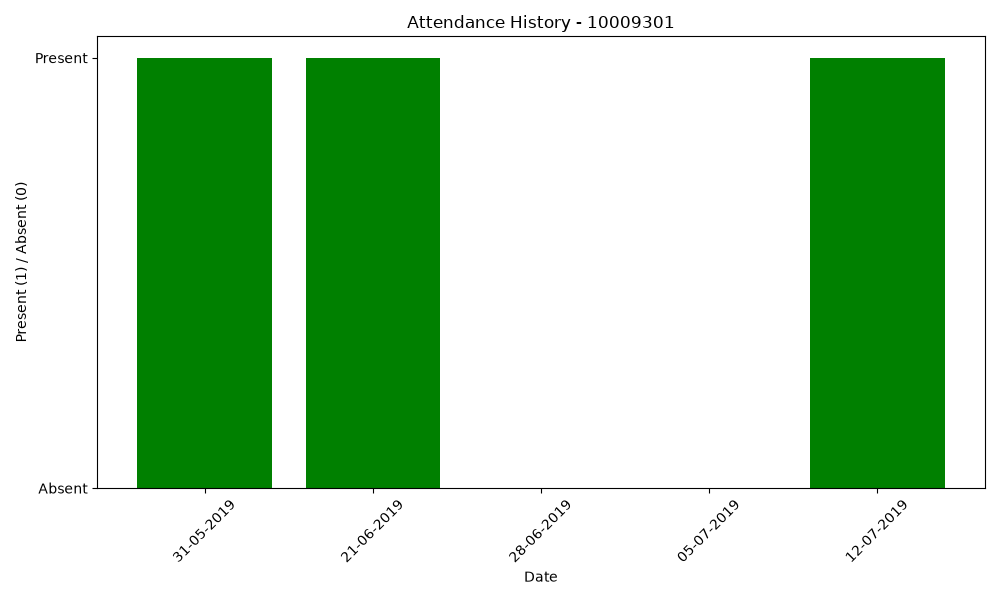
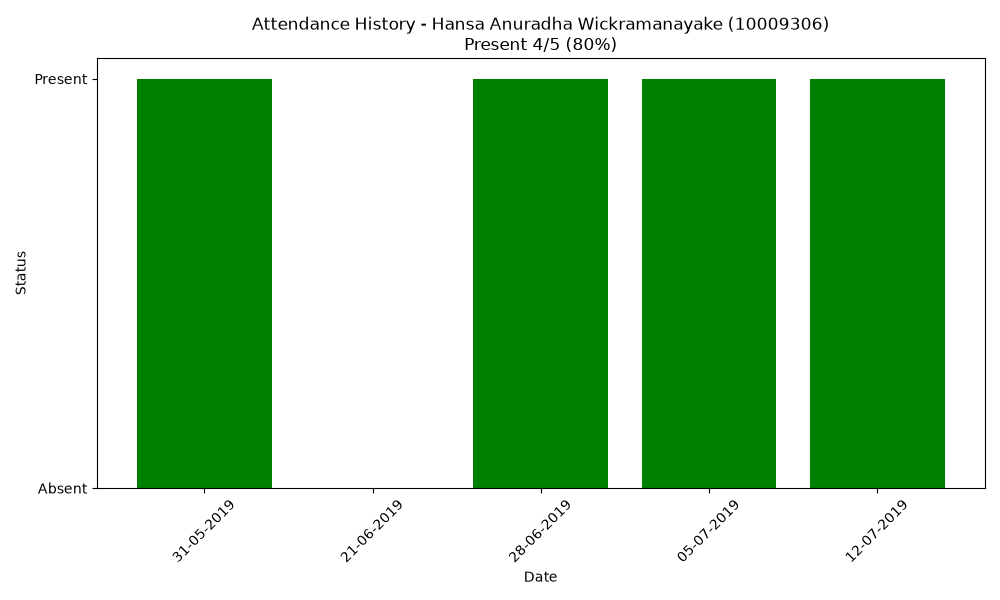
Update .gitignore, enhance README with usage instructions, and implement SignatureInvestigator class for signature consistency analysis

diff --git a/src/investigate.py b/src/investigate.py
@@ -1,0 +1,339 @@
+"""Investigate a student's signature consistency across signing sheets.
+
+This script reuses the project’s existing student roster and attendance database
+logic, crops the same signature cell used by the attendance pipeline, prepares
+those crops for comparison, and reports whether the student’s signatures look
+consistent across dates.
+"""
+
+import os
+import sys
+from typing import List, Tuple
+
+import cv2
+import numpy as np
+
+import config
+from database import AttendanceDatabase
+from student_repository import StudentRepository
+
+
+ROOT_DIR = os.path.dirname(os.path.dirname(os.path.abspath(__file__)))
+DATA_DIR = os.path.join(ROOT_DIR, "data")
+IMAGES_DIR = os.path.join(DATA_DIR, "images")
+
+
+class SignatureInvestigator:
+    """Compare a student's signatures across multiple signing sheets."""
+
+    SIMILARITY_THRESHOLD = 0.60
+
+    def __init__(self, repository: StudentRepository, database: AttendanceDatabase):
+        self.repository = repository
+        self.database = database
+
+    def investigate(self, student_id: str) -> None:
+        """Load the student, attendance records, and signature crops for comparison."""
+        try:
+            students = self.repository.load_students()
+            student = next((s for s in students if s.student_id == student_id), None)
+            if student is None:
+                try:
+                    row_index = int(student_id) - 1
+                    if 0 <= row_index < len(students):
+                        student = students[row_index]
+                    else:
+                        print(f"Student ID not found: {student_id}")
+                        return
+                except ValueError:
+                    print(f"Student ID not found: {student_id}")
+                    return
+            else:
+                row_index = students.index(student)
+            rows = self.database.get_records_for_student(student_id)
+            present_dates = sorted(
+                {row[0] for row in rows if str(row[1]).strip().lower() == "present"}
+            )
+
+            if not present_dates:
+                print(f"No present attendance records found for student {student_id}.")
+                return
+
+            samples: List[Tuple[str, str, np.ndarray]] = []
+            for image_name, boxes in config.CELL_COORDINATES.items():
+                image_date = config.IMAGE_DATES.get(image_name)
+                if image_date not in present_dates:
+                    continue
+
+                image_path = os.path.join(IMAGES_DIR, image_name)
+                if not os.path.exists(image_path):
+                    print(f"Skipping missing image: {image_path}")
+                    continue
+
+                image = cv2.imread(image_path)
+                if image is None:
+                    print(f"Skipping unreadable image: {image_path}")
+                    continue
+
+                if row_index >= len(boxes):
+                    print(f"No crop box for student row {row_index + 1} in {image_name}")
+                    continue
+
+                # Reuse the same signature-cell crop region used by the attendance pipeline.
+                y1, y2, x1, x2 = boxes[row_index]
+                crop = image[y1 + 10:y2 - 10, x1 + 10:x2 - 10]
+                processed = self._prepare_signature(crop)
+                if np.count_nonzero(processed) < 50:
+                    print(f"Skipping {image_date}: signature not detected in {image_name}")
+                    continue
+                samples.append((image_date, image_name, processed))
+
+            if len(samples) < 2:
+                print(
+                    "Not enough signature samples found for comparison. "
+                    "At least two present sheets are required."
+                )
+                return
+
+            self._save_debug_samples(student_id, samples)
+            self._report_similarity(student.name, student_id, samples)
+        except Exception as exc:  # pragma: no cover - defensive reporting for the report
+            print(f"Investigation failed: {exc}")
+
+    def _prepare_signature(self, crop: np.ndarray) -> np.ndarray:
+        """Convert a signature crop into a normalized grayscale image.
+
+        Steps:
+        - convert to gray and binarize with Otsu (consistent for all images)
+        - invert so signature strokes are white on black
+        - remove small noise via morphological open
+        - compute tight bounding box around strokes and crop
+        - center the tight crop on a fixed-size canvas (300x150)
+        - apply a small Gaussian blur to tolerate stroke/photographic noise
+        """
+        TARGET_W, TARGET_H = 300, 150
+
+        gray = cv2.cvtColor(crop, cv2.COLOR_BGR2GRAY)
+        # Consistent binarization using Otsu. Foreground (ink) will be dark (0).
+        _, binary = cv2.threshold(gray, 0, 255, cv2.THRESH_BINARY + cv2.THRESH_OTSU)
+        # Invert so ink/strokes are white (255) on black (0) which is easier to process.
+        binary_inv = cv2.bitwise_not(binary)
+
+        # Remove small noise while preserving the main signature strokes.
+        kernel = cv2.getStructuringElement(cv2.MORPH_ELLIPSE, (3, 3))
+        cleaned = cv2.morphologyEx(binary_inv, cv2.MORPH_OPEN, kernel, iterations=1)
+
+        # Find tight bounding rect around the signature strokes.
+        coords = cv2.findNonZero(cleaned)
+        if coords is None:
+            # No ink found — return an empty canvas of the target size.
+            return np.zeros((TARGET_H, TARGET_W), dtype=np.uint8)
+
+        x, y, w, h = cv2.boundingRect(coords)
+        tight = cleaned[y : y + h, x : x + w]
+
+        # Center the tight crop on a fixed-size black canvas.
+        canvas = np.zeros((TARGET_H, TARGET_W), dtype=np.uint8)
+        # If a signature is larger than the canvas, resize it preserving aspect ratio.
+        if w > TARGET_W or h > TARGET_H:
+            scale = min(TARGET_W / float(w), TARGET_H / float(h))
+            new_w = max(1, int(w * scale))
+            new_h = max(1, int(h * scale))
+            tight = cv2.resize(tight, (new_w, new_h), interpolation=cv2.INTER_AREA)
+            w, h = new_w, new_h
+
+        x_off = (TARGET_W - w) // 2
+        y_off = (TARGET_H - h) // 2
+        canvas[y_off : y_off + h, x_off : x_off + w] = tight
+
+        # Small blur to be tolerant of minor stroke/pixel differences.
+        canvas = cv2.GaussianBlur(canvas, (3, 3), 0)
+        return canvas
+
+    def _save_debug_samples(self, student_id: str, samples: List[Tuple[str, str, np.ndarray]]) -> None:
+        """Save each processed signature crop for manual inspection."""
+        os.makedirs("cells/investigate", exist_ok=True)
+        for date, image_name, sample in samples:
+            output_path = os.path.join("cells", "investigate", f"{student_id}_{date}_{image_name}.png")
+            cv2.imwrite(output_path, sample)
+
+    def _report_similarity(self, student_name: str, student_id: str, samples: List[Tuple[str, str, np.ndarray]]) -> None:
+        """Print a comparison report and save a side-by-side visualization image."""
+        print(f"Comparing {len(samples)} signature samples for {student_name} ({student_id})")
+        print("\nDate | Similarity vs. first/reference signature | Status")
+        print("-" * 70)
+
+        reference_date, _, reference_sig = samples[0]
+        # Compute SSIM scores of every sample against the reference.
+        scores: List[float] = []
+        summary_rows: List[Tuple[str, float, str]] = []
+
+        for date, _, sample_sig in samples:
+            score = self._similarity(reference_sig, sample_sig)
+            scores.append(score)
+            # We'll decide match/mismatch after computing class-level statistics.
+            summary_rows.append((date, score, "unknown"))
+
+        # Print raw SSIMs for manual inspection (reference is first sample).
+        for date, score, _ in summary_rows:
+            if date == reference_date:
+                print(f"{date:<15} | {'1.000':>8} | reference")
+            else:
+                print(f"{date:<15} | {score:>8.3f} |")
+
+        # Decide mismatches by checking for outliers relative to the student's own scores.
+        nonref_scores = [s for i, s in enumerate(scores) if i != 0]
+        if len(nonref_scores) >= 2:
+            mean = float(np.mean(nonref_scores))
+            std = float(np.std(nonref_scores))
+            # Dynamic cutoff: flag as mismatch if score is more than ~1 std below mean.
+            dynamic_cutoff = max(0.0, mean - 1.0 * std)
+        elif len(nonref_scores) == 1:
+            # Fallback to global threshold when only one comparison exists.
+            mean = nonref_scores[0]
+            std = 0.0
+            dynamic_cutoff = self.SIMILARITY_THRESHOLD
+        else:
+            mean = 0.0
+            std = 0.0
+            dynamic_cutoff = self.SIMILARITY_THRESHOLD
+
+        # Update statuses with the dynamic cutoff and print final table lines.
+        print("\nDate | Similarity vs. first/reference signature | Status")
+        print("-" * 70)
+        updated_rows: List[Tuple[str, float, str]] = []
+        for date, score, _ in summary_rows:
+            if date == reference_date:
+                updated_rows.append((date, score, "reference"))
+            else:
+                status = "match" if score >= dynamic_cutoff else "mismatch"
+                updated_rows.append((date, score, status))
+                print(f"{date:<15} | {score:>8.3f} | {status}")
+
+        # Check every pair of signatures for mismatches below the threshold.
+        # Also check pairwise comparisons and report any clear outliers.
+        for i in range(len(samples)):
+            for j in range(i + 1, len(samples)):
+                date_a, _, sig_a = samples[i]
+                date_b, _, sig_b = samples[j]
+                score = self._similarity(sig_a, sig_b)
+                # Use the same dynamic logic: if this pair is well below the student's mean, report it.
+                if len(nonref_scores) >= 1 and score < max(0.0, mean - 1.5 * std):
+                    print(
+                        f"Possible signature mismatch detected between {date_a} and {date_b} "
+                        f"(similarity: {score:.3f})"
+                    )
+
+        # Save a side-by-side visualization for the report.
+        self._save_comparison_image(student_id, updated_rows, samples)
+
+        if any(status == "mismatch" for _, _, status in updated_rows[1:]):
+            print("\nInvestigation result: possible mismatch detected.")
+        else:
+            print("\nInvestigation result: signatures appear consistent.")
+
+    def _save_comparison_image(self, student_id: str, summary_rows: List[Tuple[str, float, str]],
+                               samples: List[Tuple[str, str, np.ndarray]]) -> None:
+        """Create a side-by-side image showing signature crops and their scores."""
+        panels = []
+        # Map dates to processed sample images for display
+        sample_map = {date: img for (date, _, img) in samples}
+        for date, score, status in summary_rows:
+            # Create a panel with white background
+            panel = np.full((220, 220, 3), 255, dtype=np.uint8)
+            # Draw signature image if available
+            sig = sample_map.get(date)
+            if sig is not None:
+                # sig is single-channel; convert to BGR and resize to fit
+                sig_rgb = cv2.cvtColor(sig, cv2.COLOR_GRAY2BGR)
+                h, w = sig_rgb.shape[:2]
+                max_w, max_h = 200, 120
+                scale = min(max_w / float(w), max_h / float(h), 1.0)
+                new_w = max(1, int(w * scale))
+                new_h = max(1, int(h * scale))
+                sig_resized = cv2.resize(sig_rgb, (new_w, new_h), interpolation=cv2.INTER_AREA)
+                x_off = 10
+                y_off = 40
+                panel[y_off : y_off + new_h, x_off : x_off + new_w] = sig_resized
+
+            cv2.putText(panel, date, (10, 18), cv2.FONT_HERSHEY_SIMPLEX, 0.5, (0, 0, 0), 1)
+            cv2.putText(panel, f"score: {score:.2f}", (10, 36), cv2.FONT_HERSHEY_SIMPLEX, 0.5, (0, 0, 0), 1)
+            cv2.putText(panel, status, (10, 56), cv2.FONT_HERSHEY_SIMPLEX, 0.5, (0, 0, 0), 1)
+            panels.append(panel)
+
+        if not panels:
+            return
+
+        output_path = os.path.join(ROOT_DIR, f"investigate_{student_id}.png")
+        canvas = cv2.hconcat(panels)
+        cv2.imwrite(output_path, canvas)
+        print(f"Saved comparison image to {output_path}")
+
+    def _similarity(self, sig_a: np.ndarray, sig_b: np.ndarray) -> float:
+        """Compare two preprocessed signature images and return a similarity score in [0, 1]."""
+        # Ensure both images are the same target size.
+        target_h, target_w = 150, 300
+        if sig_a.shape != (target_h, target_w):
+            sig_a = cv2.resize(sig_a, (target_w, target_h), interpolation=cv2.INTER_AREA)
+        if sig_b.shape != (target_h, target_w):
+            sig_b = cv2.resize(sig_b, (target_w, target_h), interpolation=cv2.INTER_AREA)
+
+        if sig_a.size == 0 or sig_b.size == 0:
+            return 0.0
+
+        # Convert to float64 for SSIM math and normalize to [0,255].
+        img1 = sig_a.astype(np.float64)
+        img2 = sig_b.astype(np.float64)
+
+        # Apply a small Gaussian blur to tolerate small pixel/pen-width differences.
+        img1 = cv2.GaussianBlur(img1, (3, 3), 0)
+        img2 = cv2.GaussianBlur(img2, (3, 3), 0)
+
+        # Compute SSIM (following the typical formula used by scikit-image).
+        C1 = (0.01 * 255) ** 2
+        C2 = (0.03 * 255) ** 2
+
+        # Gaussian kernel for local statistics
+        kernel_size = (11, 11)
+        sigma = 1.5
+
+        mu1 = cv2.GaussianBlur(img1, kernel_size, sigma)
+        mu2 = cv2.GaussianBlur(img2, kernel_size, sigma)
+
+        mu1_sq = mu1 * mu1
+        mu2_sq = mu2 * mu2
+        mu1_mu2 = mu1 * mu2
+
+        sigma1_sq = cv2.GaussianBlur(img1 * img1, kernel_size, sigma) - mu1_sq
+        sigma2_sq = cv2.GaussianBlur(img2 * img2, kernel_size, sigma) - mu2_sq
+        sigma12 = cv2.GaussianBlur(img1 * img2, kernel_size, sigma) - mu1_mu2
+
+        # SSIM map
+        denom = (mu1_sq + mu2_sq + C1) * (sigma1_sq + sigma2_sq + C2)
+        # Avoid division by zero
+        denom = np.where(denom == 0, 1e-9, denom)
+        ssim_map = ((2 * mu1_mu2 + C1) * (2 * sigma12 + C2)) / denom
+
+        # Mean SSIM over the image
+        score = float(np.mean(ssim_map))
+        # Clip to [0, 1]
+        return max(0.0, min(1.0, score))
+
+
+def main() -> None:
+    """CLI entry point for the investigator."""
+    if len(sys.argv) != 2:
+        print("Usage: python investigate.py <student_id>")
+        print("Example: python investigate.py 10000409")
+        sys.exit(1)
+
+    student_id = sys.argv[1]
+    investigator = SignatureInvestigator(
+        StudentRepository(config.XML_PATH),
+        AttendanceDatabase(config.DB_PATH),
+    )
+    investigator.investigate(student_id)
+
+
+if __name__ == "__main__":
+    main()

diff --git a/README.md b/README.md
@@ -1,2 +1,28 @@
 # CS402-SAMS
 Student Attendance Management System
+
+## Usage
+
+1. Process a signing sheet and save attendance records:
+   ```bash
+   python src/sams.py data/images/1.jpeg
+   ```
+
+2. View attendance visualization for a student:
+   ```bash
+   python src/infovis.py 10000409
+   ```
+
+3. Investigate signature consistency for a student across sheets:
+   ```bash
+   python src/investigate.py 10000409
+   ```
+
+## Files
+
+- `src/sams.py`: main pipeline to process sheet images and save attendance.
+- `src/infovis.py`: generates a bar chart of attendance for a student.
+- `src/investigate.py`: compares the same student's signatures across sheets.
+- `data/info.xml`: student roster and metadata.
+- `data/images/1.jpeg` ... `5.jpeg`: signing sheet images.
+- `db/attendance.db`: SQLite attendance records.
